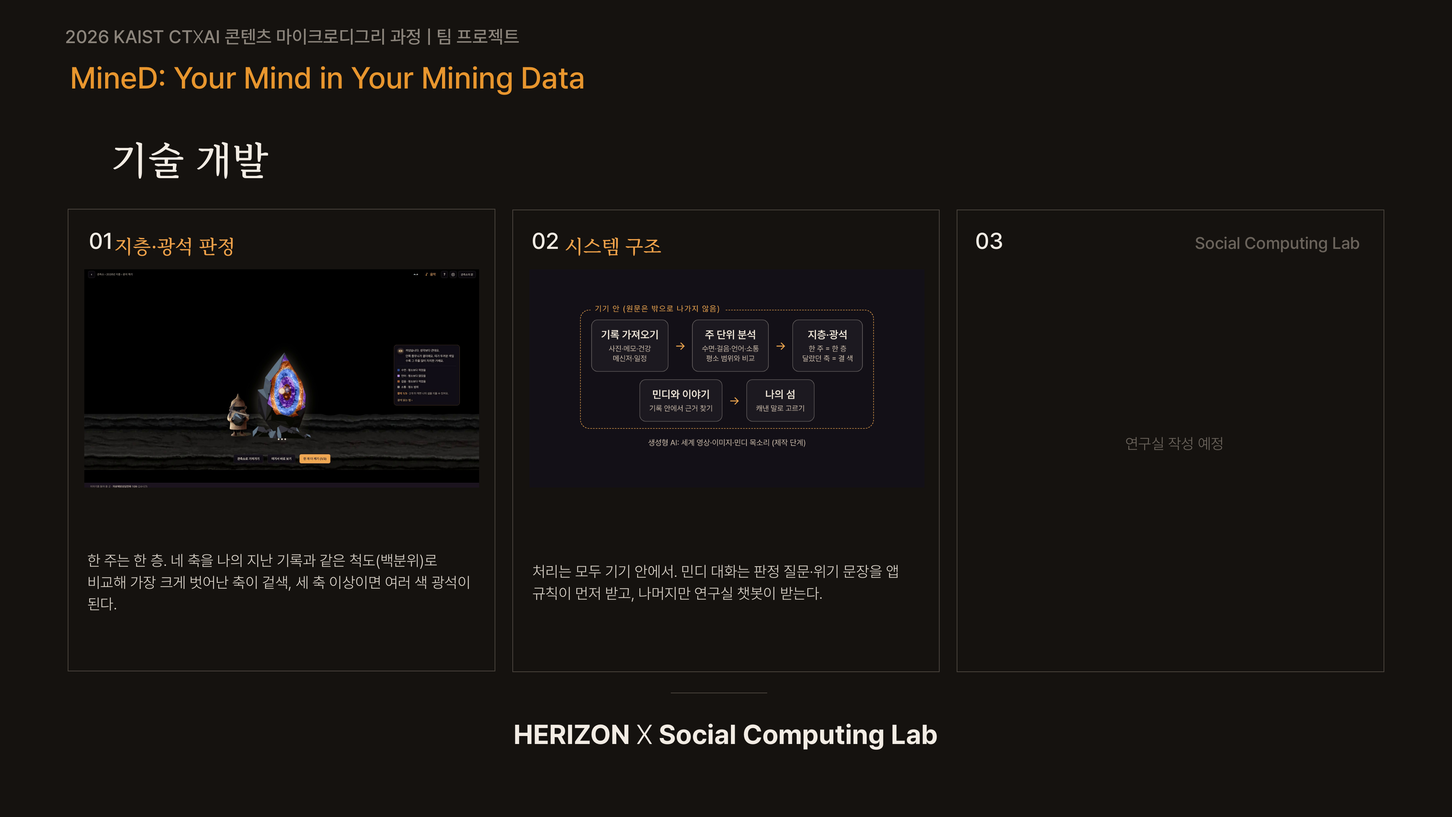
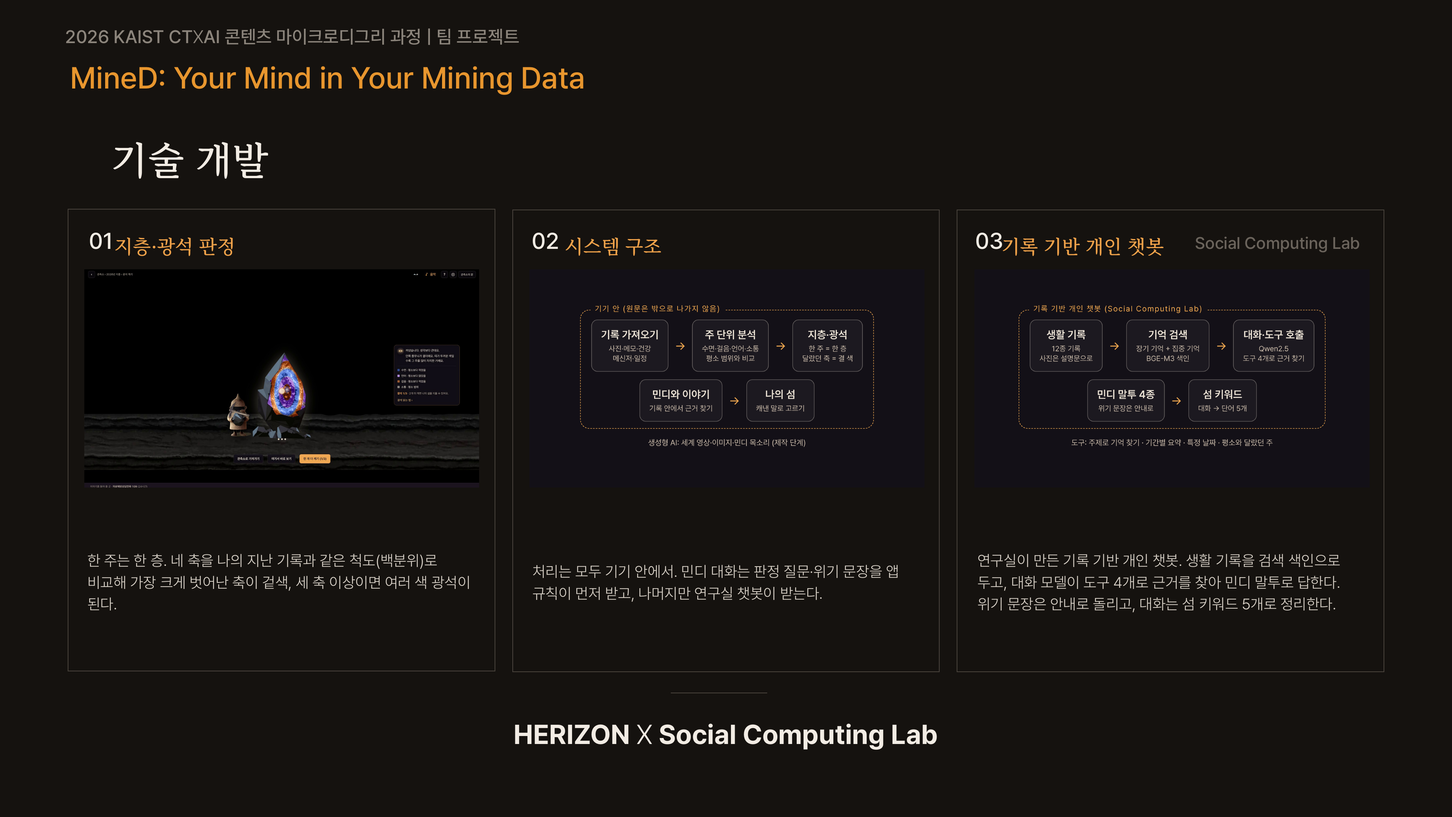
쇼케이스 v8: 섬 문구(기록이 쌓여 나만의 섬·스스로 디자인·섬끼리 연결), 기술 개발 03 서연님 챗봇으로 채움, 온천 추가·섬마다 포인트 한 컷, 풀영상에 멘토 구현 기술 카드
Claude-Session: https://claude.ai/code/session_01H6XxrjKT2zziYGGeC5Esr8

Changed region(s): [[0.7188, 0.3722, 0.9062, 0.5583], [0.6875, 0.6824, 0.9062, 0.7444], [0.6875, 0.2792, 0.8125, 0.3102]]

diff --git a/showcase/v0.5_kit/cards/cards_src.html b/showcase/v0.5_kit/cards/cards_src.html
@@ -1,0 +1,205 @@
+<!doctype html><html lang="ko"><head><meta charset="utf-8">
+<link rel="stylesheet" href="pret.css">
+<style>
+@font-face{font-family:Maru;src:url(maru.woff2)format("woff2");font-weight:400}
+@font-face{font-family:Maru;src:url(maru-sb.woff2)format("woff2");font-weight:600}
+:root{--bg:#141118;--ink:#efe6d8;--dim:#a99f92;--amber:#f0a850;--line:rgba(239,230,216,.14)}
+*{margin:0;padding:0;box-sizing:border-box}
+html,body{width:1920px;height:1080px;overflow:hidden;background:var(--bg);color:var(--ink);font-family:"Pretendard Variable",sans-serif;-webkit-font-smoothing:antialiased}
+html.overlay,html.overlay body{background:transparent}
+.card{position:absolute;inset:0;display:none}
+.on{display:block}
+.bgfog{position:absolute;inset:0;background:radial-gradient(ellipse at 50% 45%,rgba(240,168,80,.07),transparent 60%)}
+.strata{position:absolute;left:0;right:0;bottom:0;height:300px;
+ background:
+  repeating-linear-gradient(180deg,#2a2420 0 26px,#211c1a 26px 34px,#3a2f27 34px 52px,#1c1816 52px 60px,#4a3a2c 60px 70px,#231d1a 70px 96px);
+ opacity:.8;-webkit-mask-image:linear-gradient(180deg,transparent 0%,#000 55%);mask-image:linear-gradient(180deg,transparent 0%,#000 55%)}
+.strata::after{content:"";position:absolute;inset:0;background:linear-gradient(90deg,var(--bg) 0%,transparent 18%,transparent 82%,var(--bg) 100%)}
+.center{position:absolute;inset:0;display:flex;flex-direction:column;align-items:center;justify-content:center;text-align:center}
+.logo{width:300px;opacity:.95;margin-bottom:34px}
+h1{font-family:Maru;font-weight:600;font-size:128px;letter-spacing:.02em;line-height:1}
+.en{margin-top:26px;font-size:30px;color:var(--dim);letter-spacing:.06em}
+.ko{margin-top:46px;font-family:Maru;font-size:40px;color:var(--ink)}
+.team{position:absolute;bottom:64px;width:100%;text-align:center;font-size:24px;letter-spacing:.32em;color:var(--amber)}
+.ev{position:absolute;top:56px;width:100%;text-align:center;font-size:20px;letter-spacing:.3em;color:var(--dim)}
+/* spec */
+.spec{position:absolute;left:220px;right:220px;top:50%;transform:translateY(-50%)}
+.kicker{font-size:22px;letter-spacing:.32em;color:var(--amber)}
+.spec h2{font-family:Maru;font-weight:600;font-size:60px;margin-top:18px}
+table{width:100%;border-collapse:collapse;margin-top:52px}
+td{padding:22px 0;border-top:1px solid var(--line);font-size:28px;vertical-align:top}
+tr:last-child td{border-bottom:1px solid var(--line)}
+td.k{width:250px;color:var(--amber);font-weight:600}
+td.t{width:600px;font-weight:600}
+td.u{color:var(--dim)}
+.note{margin-top:40px;font-family:Maru;font-size:30px;color:var(--ink)}
+/* credit */
+.cr .roles{margin-top:60px;font-size:26px;color:var(--dim);line-height:1.9}
+.cr .made{font-size:22px;letter-spacing:.32em;color:var(--dim)}
+.cr .tn{font-family:Maru;font-weight:600;font-size:96px;margin-top:22px;letter-spacing:.06em}
+.cr .ev2{margin-top:34px;font-size:28px;color:var(--ink);letter-spacing:.04em}
+.fine{position:absolute;bottom:56px;width:100%;text-align:center;font-size:20px;color:var(--dim);line-height:1.8}
+/* chapter lower third */
+.ch{position:absolute;left:96px;bottom:92px;display:flex;align-items:baseline;gap:26px;padding:22px 40px 24px;border-radius:18px;background:rgba(20,17,24,.62);backdrop-filter:blur(6px);border:1px solid rgba(240,168,80,.35)}
+.ch .n{font-size:26px;color:var(--amber);letter-spacing:.18em;font-weight:600}
+.ch .t{font-family:Maru;font-weight:600;font-size:40px}
+.ch .s{font-size:22px;color:var(--dim)}
+.opt{position:absolute;right:96px;top:80px;padding:18px 30px;border-radius:16px;background:rgba(20,17,24,.58);border:1px solid rgba(239,230,216,.18);text-align:right}
+.opt .p{font-family:Maru;font-weight:600;font-size:36px}
+.opt .o{margin-top:8px;font-size:22px;color:#e6dccd;letter-spacing:.02em}
+.opt .x{margin-top:6px;font-size:18px;color:var(--dim)}
+
+/* v0.3 overlays */
+.subbg{position:absolute;left:0;right:0;bottom:0;height:330px;background:linear-gradient(to top,rgba(8,8,10,.62),rgba(8,8,10,.38) 55%,rgba(8,8,10,0))}
+.sub{position:absolute;left:0;right:0;bottom:96px;text-align:center;color:#f7f3ea;font-size:44px;font-weight:600;line-height:1.5;white-space:pre;text-shadow:0 2px 6px rgba(0,0,0,.85),0 0 22px rgba(0,0,0,.6)}
+.sub .who{display:inline-block;font-size:26px;letter-spacing:.12em;color:#f6d44b;margin-bottom:6px;text-shadow:0 1px 4px rgba(0,0,0,.9)}
+.pip{position:absolute;left:96px;top:150px;width:560px;padding:30px 34px;border-radius:22px;background:rgba(20,17,24,.86);border:1px solid rgba(239,230,216,.22);box-shadow:0 18px 50px rgba(0,0,0,.45)}
+.pip .h{font-size:22px;color:var(--amber);letter-spacing:.16em;font-weight:600}
+.pip .d{margin-top:6px;font-size:30px;font-weight:600;color:#f3ece2}
+.pip .row{display:grid;grid-template-columns:70px 1fr 150px;align-items:center;gap:14px;margin-top:20px;font-size:24px;color:#e6dccd}
+.pip .bar{height:16px;border-radius:8px;background:rgba(255,255,255,.08);position:relative;overflow:hidden}
+.pip .bar i{position:absolute;top:0;bottom:0;border-radius:8px}
+.pip .w{font-size:21px;color:#c9baa9;text-align:right}
+.pip .foot{margin-top:24px;padding-top:18px;border-top:1px solid rgba(239,230,216,.16);font-size:24px;color:#e6dccd}
+.pip .arrow{margin-top:18px;font-family:Maru;font-weight:600;font-size:30px;color:#f3ece2}
+.bub{position:absolute;left:50%;bottom:110px;transform:translateX(-50%);display:flex;align-items:flex-end;gap:16px}
+.bub .face{width:104px;height:78px;border-radius:26px;background:rgba(20,20,20,.93);position:relative;box-shadow:0 8px 24px rgba(0,0,0,.35)}
+.bub .face::before,.bub .face::after{content:"";position:absolute;top:24px;width:26px;height:26px;border-radius:50%;background:#f6d44b}
+.bub .face::before{left:20px}.bub .face::after{right:20px}
+.bub .tx{background:rgba(20,20,20,.93);color:#f7f3ea;border-radius:26px;padding:22px 36px;font-size:40px;font-weight:600;line-height:1.42;white-space:pre;box-shadow:0 8px 24px rgba(0,0,0,.35)}
+.step{position:absolute;left:96px;bottom:84px;max-width:1500px;padding:20px 34px 22px;border-radius:18px;background:rgba(20,17,24,.78);border:1px solid rgba(240,168,80,.4)}
+.step .n{font-size:22px;color:var(--amber);letter-spacing:.2em;font-weight:600}
+.step .t{margin-top:8px;font-family:Maru;font-weight:600;font-size:40px;line-height:1.35}
+.tag{position:absolute;right:96px;top:72px;padding:12px 24px;border-radius:999px;background:rgba(20,17,24,.72);border:1px solid rgba(239,230,216,.22);font-size:22px;color:#e6dccd;letter-spacing:.04em}
+.line{position:absolute;inset:0;display:flex;flex-direction:column;align-items:center;justify-content:center;text-align:center}
+.line .big{font-family:Maru;font-weight:600;font-size:64px;line-height:1.4}
+.line .sm{margin-top:28px;font-size:26px;color:var(--dim);letter-spacing:.08em}
+.isl{position:absolute;left:0;right:0;bottom:0;height:420px;padding-top:200px;text-align:center;background:linear-gradient(180deg,transparent 0%,rgba(10,8,12,.55) 45%,rgba(10,8,12,.72) 100%)}
+.isl .big{font-family:Maru;font-weight:600;font-size:60px;text-shadow:0 2px 24px rgba(0,0,0,.55)}
+.isl .sm{margin-top:14px;font-size:26px;color:#efe6d8;text-shadow:0 2px 14px rgba(0,0,0,.6)}
+.tech{position:absolute;inset:0;padding:0 110px;display:flex;flex-direction:column;justify-content:center}
+.tech .kicker{font-size:24px;letter-spacing:.28em;color:var(--amber)}
+.tech h2{font-family:Maru;font-weight:600;font-size:62px;margin:16px 0 44px;line-height:1.25}
+.tech .g{display:grid;grid-template-columns:1fr 1fr 1fr;gap:28px}
+.tech .bx{border:1.5px solid var(--line);border-radius:18px;padding:30px 32px;background:rgba(255,255,255,.025)}
+.tech .bx.w{grid-column:span 2}
+.tech .n{display:inline-block;width:42px;height:42px;border-radius:50%;background:var(--amber);color:#141118;font-weight:700;text-align:center;line-height:42px;font-size:23px;margin-right:10px}
+.tech .t{font-size:32px;font-weight:700;vertical-align:middle}
+.tech p{word-break:keep-all;margin-top:16px;font-size:25px;line-height:1.6;color:#d9d0c3}
+.tech code{font-family:inherit;color:var(--amber)}
+.tech .ft{position:absolute;left:110px;right:110px;bottom:50px;font-size:20px;color:var(--dim)}
+</style></head><body>
+<section class="card" id="title">
+ <div class="bgfog"></div><div class="strata"></div>
+ <div class="ev">2026 AI CREATOR SHOWCASE</div>
+ <div class="center">
+  <img class="logo" src="logo.webp" alt="">
+  <h1>Mine D</h1>
+  <div class="en">Your Mind in Your Mining Data</div>
+  <div class="ko">이미 쌓인 나의 기록을, 지층에서 다시 캐내다</div>
+ </div>
+ <div class="team">TEAM HERIZON</div>
+</section>
+
+<section class="card" id="spec">
+ <div class="bgfog" style="opacity:.08"></div>
+ <div class="spec">
+  <div class="kicker">TECH SPEC · 기술 사용</div>
+  <h2>무엇으로 만들었나</h2>
+  <table>
+   <tr><td class="k">영상 생성</td><td class="t">Google Flow (Veo 3.1) · Seedance 2.0</td><td class="u">민디 이야기 장면, 나의 공간 장면</td></tr>
+   <tr><td class="k">이미지 생성</td><td class="t">Google Flow · GPT 이미지</td><td class="u">민디·관측소·광석·섬 키프레임</td></tr>
+   <tr><td class="k">목소리</td><td class="t">TTS + 음높이 변환</td><td class="u">민디의 외계어 목소리</td></tr>
+   <tr><td class="k">기록 분석</td><td class="t">브라우저 안 로컬 처리</td><td class="u">주 단위 지층·광석 판정, 원문은 기기 밖으로 나가지 않음</td></tr>
+   <tr><td class="k">편집</td><td class="t">Python · FFmpeg 자동 편집</td><td class="u">이 영상의 컷 조립과 자막</td></tr>
+  </table>
+  <div class="note">AI는 마음을 진단하지 않습니다. 기록의 사실만 보여 줍니다.</div>
+ </div>
+</section>
+
+<section class="card cr" id="credit">
+ <div class="bgfog"></div><div class="strata"></div>
+ <div class="center" style="top:-60px">
+  <img class="logo" src="logo.webp" alt="" style="width:200px;margin-bottom:40px">
+  <div class="made">MADE BY</div>
+  <div class="tn">Team HERIZON</div>
+  <div class="ev2">2026 AI CREATOR SHOWCASE · KAIST</div>
+ </div>
+ <div class="fine">시연 화면은 합성 샘플 기록입니다. 실제 개인 기록은 쓰지 않았습니다.<br>영상과 목소리의 일부는 생성형 AI로 만들었습니다.</div>
+</section>
+
+<section class="card" id="ch1"><div class="ch"><span class="n">01</span><span class="t">민디가 태어난 곳</span><span class="s">세계관 영상</span></div></section>
+<section class="card" id="ch2"><div class="ch"><span class="n">02</span><span class="t">기록을 캐다</span><span class="s">실제 작동 화면 · 합성 샘플 기록</span></div></section>
+<section class="card" id="ch3"><div class="ch"><span class="n">03</span><span class="t">나의 공간</span><span class="s">캐낸 말로 짓는 섬</span></div></section>
+<section class="card" id="opt_sea"><div class="opt"><div class="p">바다</div><div class="o">고른 것 · 점심 · 여름·햇살 · 바다 · 오두막</div><div class="x">뺀 단어: 등대</div></div></section>
+<section class="card" id="opt_sky"><div class="opt"><div class="p">하늘산</div><div class="o">고른 것 · 아침 · 가을·햇살 · 구름 위 산 · 오두막</div><div class="x">뺀 단어: 텐트</div></div></section>
+<section class="card" id="opt_jungle"><div class="opt"><div class="p">정글</div><div class="o">고른 것 · 점심 · 여름·비 · 정글 · 방갈로</div><div class="x">뺀 단어: 반딧불이</div></div></section>
+<section class="card" id="opt_onsen"><div class="opt"><div class="p">온천</div><div class="o">고른 것 · 해질녘 · 한겨울·눈 · 산속 · 노천탕</div><div class="x">뺀 단어: 원숭이</div></div></section>
+<section class="card" id="opt_music"><div class="opt"><div class="p">음악방</div><div class="o">고른 것 · 해질녘 · 가을·햇살 · 도시 · 1970년대 · 룸</div><div class="x">뺀 단어: 라디오</div></div></section>
+<section class="card" id="sub01"><div class="subbg"></div><div class="sub">걸음, 사진, 메모 한 줄.
+하루가 끝나면 다 여기로 내려와요.</div></section>
+<section class="card" id="sub02"><div class="subbg"></div><div class="sub">저는 민디예요.
+여기 쌓이는 기록을 지켜요.</div></section>
+<section class="card" id="sub03"><div class="subbg"></div><div class="sub">점심 사진만 천이백 장이에요.
+누구랑 먹었는지는 하나도 안 찍혀 있고요.</div></section>
+<section class="card" id="sub06"><div class="subbg"></div><div class="sub">그렇게 십 년.
+하나도 안 없어졌어요.</div></section>
+<section class="card" id="sub10"><div class="subbg"></div><div class="sub">…그 무렵 이야기,
+들어볼까요?</div></section>
+<section class="card" id="w1"><div class="step"><div class="n">지층</div><div class="t">한 주는 한 층. 최근 12주는 주마다, 그 아래는 해마다 쌓입니다</div></div><div class="tag">실제 작동 화면 · 합성 샘플 기록</div></section>
+<section class="card" id="w2"><div class="step"><div class="n">광석</div><div class="t">평소와 달랐던 주는 검은 돌로 박혀 있다가, 깨면 그 주의 결 색이 드러납니다</div></div><div class="tag">실제 작동 화면 · 합성 샘플 기록</div></section>
+<section class="card" id="w3"><div class="step"><div class="n">민디와 이야기</div><div class="t">물으면 기록 안에서 근거를 찾아 답합니다. 원문은 기기 밖으로 나가지 않습니다</div></div><div class="tag">실제 작동 화면 · 합성 샘플 기록</div></section>
+<section class="card" id="w4"><div class="step"><div class="n">나의 섬</div><div class="t">캐낸 말로 섬을 고릅니다 · 시간 → 날씨·계절 → 장소 → 시대 → 머물 곳 → 소리</div></div><div class="tag">실제 작동 화면 · 합성 샘플 기록</div></section>
+<section class="card" id="m0"><div class="subbg"></div><div class="sub">앞으로만 달려온 날들.
+잠시 쉬어 갈 곳이 있다면.</div></section>
+<section class="card" id="mw1"><div class="step"><div class="n">지층</div><div class="t">흩어진 사진·메모·걸음·수면이 한 주에 한 층씩 쌓입니다</div></div><div class="tag">실제 작동 화면 · 합성 샘플 기록</div></section>
+<section class="card" id="mw2"><div class="step"><div class="n">광석</div><div class="t">평소와 달랐던 주가 광석으로 드러나, 쉬어 갈 때와 나아갈 때를 알아차리게 합니다</div></div><div class="tag">실제 작동 화면 · 합성 샘플 기록</div></section>
+<section class="card" id="mw3"><div class="step"><div class="n">민디와 이야기</div><div class="t">누구와도 공유되지 않는 나만의 챗봇. 내 기록 안에서만 답합니다</div></div><div class="tag">실제 작동 화면 · 합성 샘플 기록</div></section>
+<section class="card" id="mw4"><div class="step"><div class="n">나의 섬</div><div class="t">캐낸 말로 나만의 쉼터, 섬을 짓습니다</div></div><div class="tag">실제 작동 화면 · 합성 샘플 기록</div></section>
+<section class="card" id="m0b"><div class="subbg"></div><div class="sub">앞으로만 달려온 당신,
+잠시 쉬어 가요.</div></section>
+<section class="card" id="mw1b"><div class="step"><div class="n">지층</div><div class="t">흩어진 기록을 한곳에 모아, 지나쳐 온 몸과 마음을 다시 봐요</div></div><div class="tag">실제 작동 화면 · 합성 샘플 기록</div></section>
+<section class="card" id="mw2b"><div class="step"><div class="n">광석</div><div class="t">평소와 달랐던 주가 광석으로 빛나, 나만의 삶의 지표가 됩니다</div></div><div class="tag">실제 작동 화면 · 합성 샘플 기록</div></section>
+<section class="card" id="mw3b"><div class="step"><div class="n">민디와 이야기</div><div class="t">기록을 지키는 민디. 누구와도 나누지 않는 나만의 챗봇</div></div><div class="tag">실제 작동 화면 · 합성 샘플 기록</div></section>
+<section class="card" id="mw4b"><div class="step"><div class="n">나의 섬</div><div class="t">쉬어야 할 때와 나아갈 때를, 스스로 알아차리도록</div></div><div class="tag">실제 작동 화면 · 합성 샘플 기록</div></section>
+<section class="card" id="pip1"><div class="pip"><div class="h">넣은 기록 · 합성 샘플</div><div class="d">2026년 10월 19일 ~ 25일</div>
+<div class="row"><span>수면</span><div class="bar"><i style="left:0;width:34%;background:#263F86"></i></div><span class="w">평소보다 적음</span></div>
+<div class="row"><span>걸음</span><div class="bar"><i style="left:0;width:30%;background:#A2501F"></i></div><span class="w">평소보다 적음</span></div>
+<div class="row"><span>언어</span><div class="bar"><i style="left:0;width:86%;background:#CDB1F0"></i></div><span class="w">평소보다 많음</span></div>
+<div class="row"><span>소통</span><div class="bar"><i style="left:0;width:52%;background:#8C8580"></i></div><span class="w">평소 범위</span></div>
+<div class="arrow">→ 세 가지가 평소와 달라, 세 색의 결</div></div></section>
+<section class="card" id="b01"><div class="bub"><div class="face"></div><div class="tx">걸음, 사진, 메모 한 줄.
+하루가 끝나면 다 여기로 내려와요.</div></div></section>
+<section class="card" id="b02a"><div class="bub"><div class="face"></div><div class="tx">오늘도 한 층.</div></div></section>
+<section class="card" id="b02b"><div class="bub"><div class="face"></div><div class="tx">저는 민디예요.
+여기 쌓이는 기록을 지켜요.</div></div></section>
+<section class="card" id="b03"><div class="bub"><div class="face"></div><div class="tx">점심 사진만 천이백 장이에요.
+누구랑 먹었는지는 하나도 안 찍혀 있고요.</div></div></section>
+<section class="card" id="b06"><div class="bub"><div class="face"></div><div class="tx">그렇게 십 년.
+하나도 안 없어졌어요.</div></div></section>
+<section class="card" id="b10"><div class="bub"><div class="face"></div><div class="tx">…그 무렵 이야기,
+들어볼까요?</div></div></section>
+<section class="card" id="b12"><div class="bub"><div class="face"></div><div class="tx">오늘도 한 층 쌓였습니다.</div></div></section>
+<section class="card" id="s1"><div class="step"><div class="n">관측소</div><div class="t">이번 주와 가장 닮은 지난 주를, 민디가 먼저 찾아 둡니다</div></div><div class="tag">실제 작동 화면 · 합성 샘플 기록</div></section>
+<section class="card" id="s2"><div class="step"><div class="n">지층</div><div class="t">한 주는 한 층, 한 해는 하나의 지층이 됩니다</div></div><div class="tag">실제 작동 화면 · 합성 샘플 기록</div></section>
+<section class="card" id="s3"><div class="step"><div class="n">광석</div><div class="t">평소와 달랐던 주는 광석으로 남습니다. 세 번 캐면 열립니다</div></div><div class="tag">실제 작동 화면 · 합성 샘플 기록</div></section>
+<section class="card" id="s4"><div class="step"><div class="n">그 주</div><div class="t">판단하지 않고, 기록에 남은 사실만 들려줍니다</div></div><div class="tag">실제 작동 화면 · 합성 샘플 기록</div></section>
+<section class="card" id="bridge"><div class="line"><div class="big">이제, 당신의 기록으로.</div><div class="sm">원문은 당신의 기기 밖으로 나가지 않습니다</div></div></section>
+<section class="card" id="tech"><div class="bgfog" style="opacity:.08"></div><div class="tech">
+<div class="kicker">TECH · 실제 구현</div>
+<h2>기록은 기기 밖으로 나가지 않고, 판정은 브라우저 안에서</h2>
+<div class="g">
+<div class="bx"><span class="n">1</span><span class="t">내보내기 파일 그대로</span><p>구글 Takeout·건강·카카오톡·인스타그램·AI 대화 파일을 Web Worker가 스트리밍으로 읽는다. 사진 2만 장 가져오기와 판정까지 <code>6.4초</code>.</p></div>
+<div class="bx"><span class="n">2</span><span class="t">기기 안 사진·메모 필터</span><p>글자 인식(PP-OCRv5)과 얼굴 인식(BlazeFace)으로 얼굴·글자 사진을 거른다. 비밀번호·카드 번호와 위기 표현은 접어 둔다.</p></div>
+<div class="bx"><span class="n">3</span><span class="t">하루 단위 집계</span><p>채널 11개를 지표 <code>28종</code>으로 모아 브라우저 저장소(IndexedDB)에만 둔다. 원문은 기기에만 있다.</p></div>
+<div class="bx w"><span class="n">4</span><span class="t">판정 코어 · Python을 브라우저에서</span><p>Python·numpy 판정 코드를 WebAssembly(Pyodide)로 그대로 돌린다. 직전 52주의 나와 비교한 robust z(중앙값·MAD)로 가장 크게 벗어난 축이 광물, 세 축 이상이면 복합 광석. 난수가 없어 같은 기록이면 언제나 같은 광석이 나온다.</p></div>
+<div class="bx"><span class="n">5</span><span class="t">민디 문장 검사</span><p>숫자·날짜·순위가 바뀌거나 진단·조언 표현이 섞이면 원래 문장으로 되돌린다.</p></div>
+</div>
+<div class="ft">기술 멘토 구현 · 시연은 합성 샘플 기록</div>
+</div></section>
+<section class="card" id="isl2"><div class="isl"><div class="big">기록이 쌓여, 나만의 섬이 됩니다</div><div class="sm">온전히 나를 위해 스스로 디자인하는 공간 · 섬이 늘어나면 서로 이어집니다</div></div></section>
+<section class="card" id="isl"><div class="isl"><div class="big">캐낸 말로, 나의 섬을 짓습니다</div><div class="sm">고른 단어에 따라 섬이 달라집니다</div></div></section>
+<section class="card" id="end1"><div class="line"><div class="big">묻힌 것은 사라진 것이 아닙니다.</div></div></section>
+<section class="card" id="end2"><div class="bgfog"></div><div class="strata"></div><div class="center"><img class="logo" src="logo.webp" alt="" style="width:240px"><div class="big" style="font-family:Maru;font-weight:600;font-size:66px;line-height:1.4">당신의 지층에는,<br>무엇이 묻혀 있나요?</div><div class="en" style="margin-top:34px">Mine D · Your Mind in Your Mining Data</div></div></section>
+<script>const c=location.hash.slice(1)||'title';document.getElementById(c).classList.add('on');if(/^(ch|opt|b0|b1|s[0-9]|isl|sub|w[0-9]|pip|m0|mw)/.test(c))document.documentElement.classList.add('overlay');</script>
+</body></html>

diff --git a/showcase/v0.5_kit/layout/img/diag_scl.html b/showcase/v0.5_kit/layout/img/diag_scl.html
@@ -1,0 +1,17 @@
+<html><head><style>
+body{margin:0;width:1450px;height:800px;background:#141118;font-family:Pretendard;color:#efe6d8;display:flex;flex-direction:column;justify-content:center;align-items:center;gap:34px}
+.row{display:flex;align-items:center;gap:18px}
+.b{padding:22px 26px;border-radius:18px;border:2px solid rgba(239,230,216,.35);font-size:30px;font-weight:600;text-align:center;line-height:1.3;background:rgba(255,255,255,.04)}
+.b small{display:block;font-size:21px;font-weight:400;color:#c9baa9;margin-top:6px}
+.a{font-size:34px;color:#f0a850}
+.dev{zoom:1.3;border:2px dashed #f0a850;border-radius:26px;padding:26px 30px 18px;position:relative}
+.dev .t{position:absolute;top:-18px;left:28px;background:#141118;padding:0 12px;font-size:22px;color:#f0a850;letter-spacing:.1em}
+.ext{zoom:1.3;font-size:22px;color:#c9baa9}
+</style></head><body>
+<div class="dev"><span class="t">기록 기반 개인 챗봇 (Social Computing Lab)</span><div class="row">
+<div class="b">생활 기록<small>12종 기록<br>사진은 설명문으로</small></div><span class="a">→</span>
+<div class="b">기억 검색<small>장기 기억 + 집중 기억<br>BGE-M3 색인</small></div><span class="a">→</span>
+<div class="b">대화·도구 호출<small>Qwen2.5<br>도구 4개로 근거 찾기</small></div></div>
+<div class="row" style="margin-top:22px;justify-content:center"><div class="b">민디 말투 4종<small>위기 문장은 안내로</small></div><span class="a">→</span><div class="b">섬 키워드<small>대화 → 단어 5개</small></div></div></div>
+<div class="ext">도구: 주제로 기억 찾기 · 기간별 요약 · 특정 날짜 · 평소와 달랐던 주</div>
+</body></html>

diff --git a/showcase/v0.5_kit/layout/fill.py b/showcase/v0.5_kit/layout/fill.py
@@ -63,8 +63,8 @@ def pic(slide, path, x, y, w, h):
     pc.crop_left = pc.crop_right = cl[0]; pc.crop_top = pc.crop_bottom = cl[1]
     return pc
 
-SCEN_S = '흩어진 나의 기록을 지층으로 쌓고, 평소와 달랐던 주를 광석으로 캐내는 웹 체험.'
-SCEN_L = '앞으로만 달려온 나에게 잠시 쉬어 갈 곳. 흩어진 기록이 한 주에 한 층씩 쌓이고, 평소와 달랐던 주는 광석이 된다. 민디와 나눈 말로 나만의 섬을 짓는다.'
+SCEN_S = '흩어진 나의 기록을 지층으로 쌓고, 평소와 달랐던 주를 광석으로 캐낸다. 쌓인 기록은 나만을 위해 스스로 디자인하는 섬이 된다.'
+SCEN_L = '앞으로만 달려온 나에게 잠시 쉬어 갈 곳. 흩어진 기록이 한 주에 한 층씩 쌓이고, 평소와 달랐던 주는 광석이 된다. 쌓인 기록은 민디와 나눈 말을 거쳐 나만의 섬이 된다. 온전히 나만을 위해 스스로 디자인하는 공간이며, 섬이 늘어나면 서로 이어진다.'
 TECH_S = '한 주를 한 층으로. 기록은 기기 안에서만 읽고, 달랐던 축을 결 색으로 보여 준다.'
 TECH_L = '기록을 ‘한 주 = 한 층’으로 다시 정의했다. 수면·걸음·언어·소통 네 축을 나의 평소와 비교해 달랐던 주는 광석, 달랐던 축은 결 색으로 보여 준다. 원문은 기기 밖으로 나가지 않는다. KAIST 문화기술대학원 Social Computing Lab은 기록 기반 개인 챗봇을 개발해, 민디와의 대화에 연계하도록 설계했다.'
 TECH_XL = ['기록을 ‘한 주 = 한 층’으로 다시 정의했다. 수면·걸음·언어·소통 네 축을 나의 지난 기록과 같은 척도(백분위)로 비교해, 가장 크게 벗어난 축이 광석의 겉색이 되고 세 축 이상이면 여러 색 광석이 된다. 개인 기록이라 원문은 기기 밖으로 나가지 않는다.',
@@ -130,11 +130,12 @@ pic(s9, I('strata.png'), 36.0, 16.1, 14.3, 2.7)
 s10 = S(10); kill(s10, '여기엔 주요 기술')
 set_text(find(s10, '주요 개발 기술'), ['지층·광석 판정'])
 set_text(find(s10, '시스템 구조'), ['시스템 구조'])
-set_text(find(s10, 'OOOO'), [' '])  # 11/09 운영: 연구실 칸은 연구실이 작성 중, 비워 둠
+set_text(find(s10, 'OOOO'), ['기록 기반 개인 챗봇'])  # 11/10 보별: 비워 두지 말고 서연님 챗봇 분석으로 채움
 tmpl = b1  # 9번 본문 상자 서식 복제
 for k, (img, lines) in enumerate([
     ('ore.png', ['한 주는 한 층. 네 축을 나의 지난 기록과 같은 척도(백분위)로 비교해 가장 크게 벗어난 축이 겉색, 세 축 이상이면 여러 색 광석이 된다.']),
-    ('diag.png', ['처리는 모두 기기 안에서. 민디 대화는 판정 질문·위기 문장을 앱 규칙이 먼저 받고, 나머지만 연구실 챗봇이 받는다.'])]):
+    ('diag.png', ['처리는 모두 기기 안에서. 민디 대화는 판정 질문·위기 문장을 앱 규칙이 먼저 받고, 나머지만 연구실 챗봇이 받는다.']),
+    ('diag_scl.png', ['연구실이 만든 기록 기반 개인 챗봇. 생활 기록을 검색 색인으로 두고, 대화 모델이 도구 4개로 근거를 찾아 민디 말투로 답한다. 위기 문장은 안내로 돌리고, 대화는 섬 키워드 5개로 정리한다.'])]):
     x = 2.5 + k * 16.35
     pic(s10, I(img), x + 0.6, 9.9, 14.5, 8.0)
     el = copy.deepcopy(tmpl._element); s10.shapes._spTree.append(el)
@@ -154,7 +155,7 @@ def placeholder03(slide, color):
     set_text(sh, ['연구실 작성 예정'], color)
     from pptx.enum.text import PP_ALIGN
     for pp in sh.text_frame.paragraphs: pp.alignment = PP_ALIGN.CENTER
-placeholder03(s10, '6B645C' if THEME == 'dark' else 'B0B0B0')
+# placeholder03(s10, …)  11/10: 03 칸을 채워서 쓰지 않음
 if THEME == 'dark':
     BG, BODY, HEAD, ACC, SUB, LINE = '15120F', 'D9D2C8', 'F2ECE4', 'F0A24A', '8C857C', '4A443D'
     for slide in (s9, s10):
@@ -170,7 +171,7 @@ if THEME == 'dark':
             if t.startswith('2026 KAIST'): c = SUB
             elif t.startswith('MineD: Your'): c = 'E8962E'
             elif t in ('콘텐츠 개발', '기술 개발') or t in ('01', '02', '03') or t.startswith('HERIZON'): c = HEAD
-            elif t in ('캐릭터', '세계와 소리', '시나리오', '지층·광석 판정', '시스템 구조'): c = ACC
+            elif t in ('캐릭터', '세계와 소리', '시나리오', '지층·광석 판정', '시스템 구조', '기록 기반 개인 챗봇'): c = ACC
             elif t in ('Social Computing Lab', '연구실 작성 예정'): c = '6B645C'
             else: c = BODY
             for r in runs_of(sh): r.font.color.rgb = RGBColor.from_string(c)
@@ -215,7 +216,7 @@ def ea(sh, face):
                 if el is None:
                     el = rPr.makeelement(qn(tag), {}); rPr.append(el)
                 el.set('typeface', face)
-HEADS = ('콘텐츠 시나리오', '구현 기술', '콘텐츠 개발', '기술 개발', '개발팀', '캐릭터', '세계와 소리', '시나리오', '지층·광석 판정', '시스템 구조')
+HEADS = ('콘텐츠 시나리오', '구현 기술', '콘텐츠 개발', '기술 개발', '개발팀', '캐릭터', '세계와 소리', '시나리오', '지층·광석 판정', '시스템 구조', '기록 기반 개인 챗봇')
 for slide in p.slides:
     for sh in slide.shapes:
         if not sh.has_text_frame: continue

diff --git a/showcase/v0.5_kit/build5.py b/showcase/v0.5_kit/build5.py
@@ -253,6 +253,7 @@ def islands(spaces, out, cap=12.0, ixf=0.6, xf=0.8, min_piece=3.0):
     n = len(spaces)
     for *_x, key in spaces:
         ins += ['-loop', '1', '-i', card(f'opt_{key}')]
+    ins += ['-loop', '1', '-i', card('isl2')]  # 11/10 보별: 기록이 쌓여 나만의 섬이 된다 · 스스로 디자인 · 섬끼리 연결
     lens = []
     for i, (f, cuts, key) in enumerate(spaces):
         use, left = [], cap
@@ -285,6 +286,8 @@ def islands(spaces, out, cap=12.0, ixf=0.6, xf=0.8, min_piece=3.0):
         fc += f'[{aacc}][n{i}]acrossfade=d={xf}:c1=qsin:c2=qsin[m{i}];'
         acc, aacc, t = f'w{i}', f'm{i}', t + lens[i] - xf
     total = t
+    fc += ov(2 * n, 0.4, min(6.5, total - 1.0), 0.5) + f'[isl];[{acc}][isl]overlay=0:0:shortest=1[ac2];'
+    acc = 'ac2'
     fc += (f'[{acc}]fade=t=in:st=0:d=0.5,fade=t=out:st={total - 0.8:.2f}:d=0.8[v];'
            f'[{aacc}]afade=t=in:st=0:d=0.6,afade=t=out:st={total - 1:.2f}:d=1,atrim=0:{total}[a]')
     run(ins + ['-filter_complex', fc, '-map', '[v]', '-map', '[a]', '-t', f'{total:.3f}'] + VENC + AENC + [out])
@@ -368,6 +371,8 @@ def main():
     ap = argparse.ArgumentParser()
     for k in ('sea', 'sky', 'jungle', 'music'):
         ap.add_argument('--' + k, required=True)
+    ap.add_argument('--onsen', default='', help='온천 섬 영상(11/10 보별: 온천도 넣기)')
+    ap.add_argument('--onsen-cut', default='', help='온천에서 쓸 구간 a,b(초). 비우면 끝 풍경(길이-6.8 ~ 길이-0.8)')
     ap.add_argument('--out', default='MineD_쇼케이스_v0.5.mp4')
     ap.add_argument('--cut', choices=['full', 'sub', 'main'], default='full',
                     help='full=출품 영상(제목·기술·본편·크레딧) / sub=서브·심포지엄(레이아웃 장+본편 2분+크레딧 장) / main=메인(레이아웃 장+1분 축약)')
@@ -385,6 +390,9 @@ def main():
         cuts = [tuple(x) for x in c] if isinstance(c[0], (list, tuple)) else [tuple(c)]
         cuts = ISLAND_CUTS.get(key, cuts)
         spaces.append((f, cuts, key))
+    if o.onsen:  # 손이 나오는 잔 컷(S4)은 피하고 끝 풍경(S5)을 쓴다
+        oc = tuple(float(x) for x in o.onsen_cut.split(',')) if o.onsen_cut else (dur(o.onsen) - 6.8, dur(o.onsen) - 0.8)
+        spaces.append((o.onsen, [oc], 'onsen'))
     pre = [x for x in o.pre.split(',') if x]
     post = [x for x in o.post.split(',') if x]
     segs = []
@@ -412,19 +420,21 @@ def main():
         dm_ = [x[:5] + ([(rc(c), *r) for c, *r in x[5]],) + x[6:] for x in DEMO_S]
         story('seg/03_story.mp4', st_); segs.append('03_story')
         demo('seg/05_demo.mp4', dm_); segs.append('05_demo')
-        two = [(f, [(4.4, 9.4)] if k == 'sky' else [(3.4, 8.4)] if k == 'sea' else c, k) for f, c, k in spaces if k in ('sea', 'sky')]  # 하늘산 원본 9.52초 컷 뒤 짧은 숏 빼기
-        islands(two, 'seg/06_islands.mp4', cap=6.0); segs.append('06_islands')
+        two = [(f, [(4.4, 9.4)] if k == 'sky' else [(3.4, 8.4)] if k == 'sea' else c, k) for f, c, k in spaces if k in ('sea', 'sky', 'onsen')]  # 하늘산 원본 9.52초 컷 뒤 짧은 숏 빼기
+        islands(two, 'seg/06_islands.mp4', cap=4.6 if o.onsen else 6.0); segs.append('06_islands')
         ending('seg/07_end.mp4', short=True); segs.append('07_end')
     else:
         story('seg/03_story.mp4'); segs.append('03_story')
         bridge('seg/04_bridge.mp4'); segs.append('04_bridge')
+        if o.cut == 'sub':  # 11/10 보별: 멘토 기술 시연(10/24 AtoZ) 내용을 긴 판에 — 실제 구현 5가지
+            still(card('tech'), 11, 'seg/045_tech.mp4', fi=0.6, fo=0.6); segs.append('045_tech')
         two_min = o.cut == 'sub'  # 서브·심포지엄 「풀 영상」: 섬 고르기를 조금 빠르게, 섬마다 10초(운영: 3분 조금 넘어도 됨)
         dm = [(x[:3] + (2.0,) + x[4:]) if two_min and 'island' in x[0] else x for x in DEMO]
         demo('seg/05_demo.mp4', dm); segs.append('05_demo')
-        if two_min:  # 10초 상한에서도 하늘산은 구름바다 와이드로 끝나게
-            spaces = [(f, [(4.4, 9.4), (30.5, 35.5)] if k == 'sky' else [(4.1, 10.0), (30.3, 33.8)] if k == 'music' else c, k)
-                      for f, c, k in spaces]  # 음악방도 창밖 풍경 엔딩(30.3~33.8)까지
-        islands(spaces, 'seg/06_islands.mp4', cap=9.5 if two_min else 12.0, min_piece=3.5 if two_min else 3.0); segs.append('06_islands')
+        if two_min:  # 11/10 보별: 섬마다 포인트 한 컷 + 온천. 한 컷은 원본 안 컷 사이 구간만
+            pt = {'sky': [(4.4, 9.4)], 'music': [(4.1, 10.0)], 'sea': [(3.4, 8.4)], 'jungle': [(6.0, 11.1)]}
+            spaces = [(f, pt.get(k, c[:1]), k) for f, c, k in spaces]
+        islands(spaces, 'seg/06_islands.mp4', cap=6.0 if two_min else 12.0, min_piece=3.5 if two_min else 3.0); segs.append('06_islands')
         ending('seg/07_end.mp4'); segs.append('07_end')
     if post:
         pages(post, '08_post')
